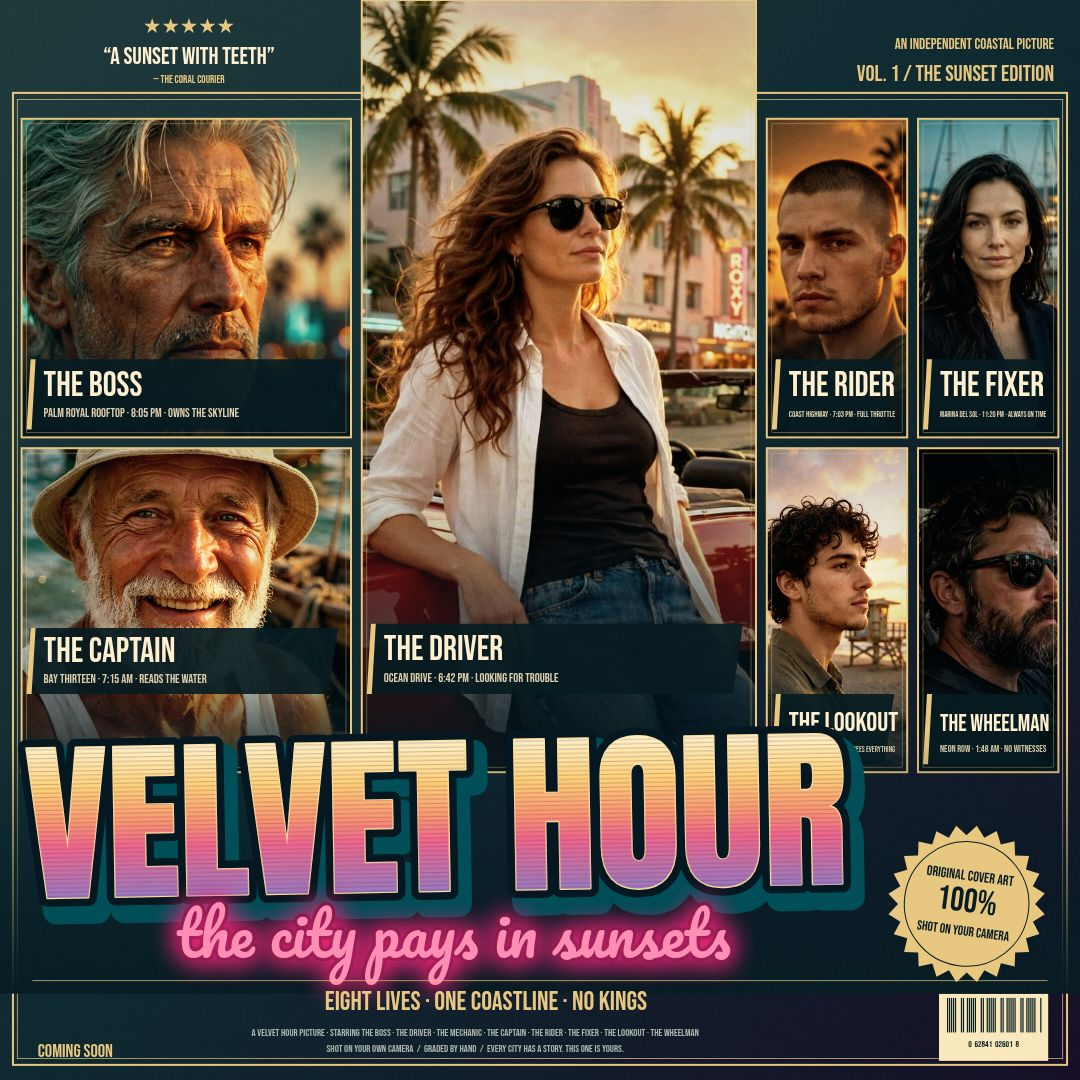
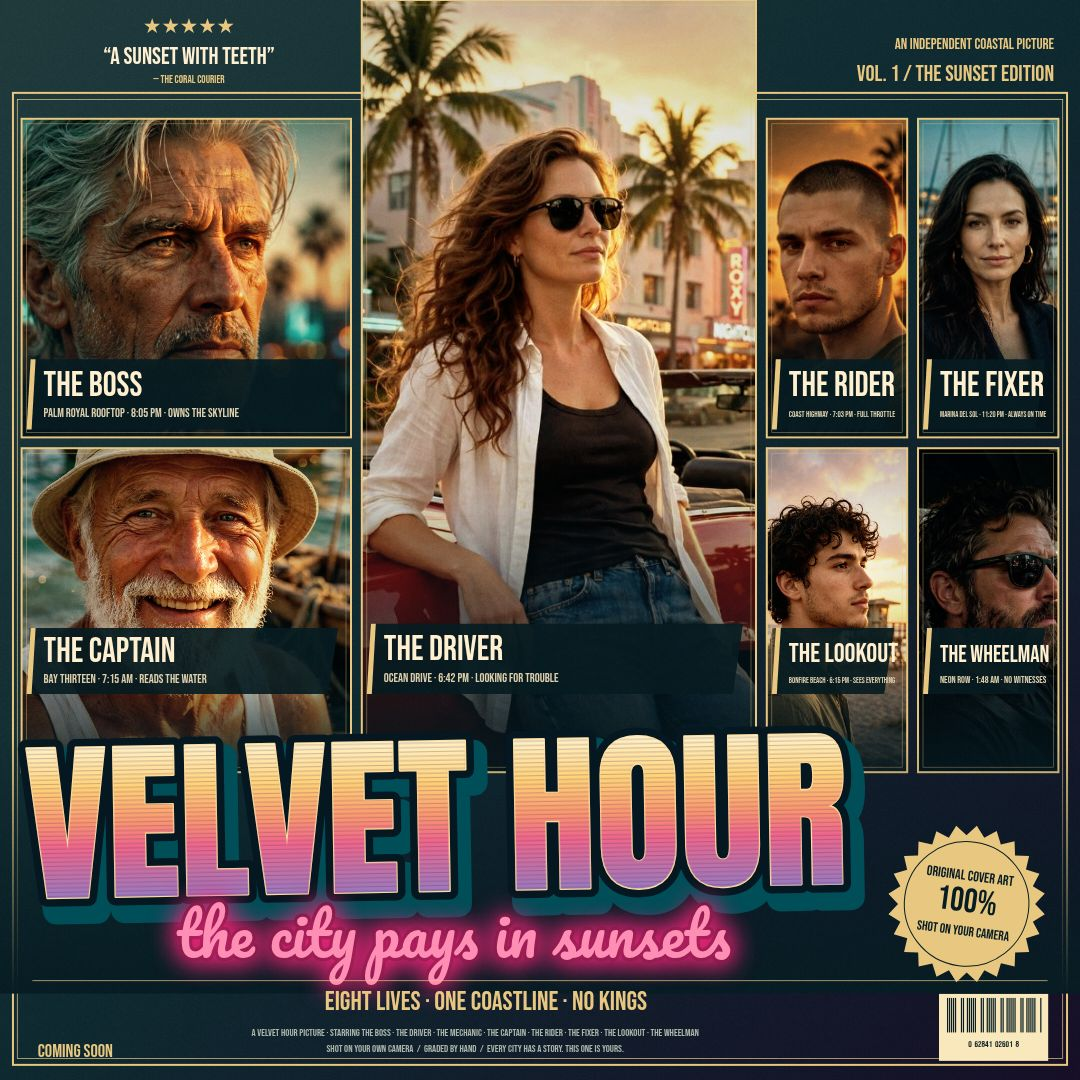
Polish square cast tag clearance and complete provenance audit

Changed region(s): [[0.7028, 0.5806, 0.9778, 0.7028]]

diff --git a/app/src/render-poster.js b/app/src/render-poster.js
@@ -506,7 +506,8 @@ export function renderCoverPoster(canvas, state, photos, { selected = -1 } = {})
     drawGradedPhotoPanel(ctx, photo, panel, boxes[index], state);
 
     const labelBox = { ...boxes[index] };
-    if (!portrait && index <= 2 && labelBox.y + labelBox.h > height * .65) {
+    const square = Math.abs(width / height - 1) < .05;
+    if (!portrait && (index <= 2 || square) && labelBox.y + labelBox.h > height * .65) {
       labelBox.h = height * .65 - labelBox.y;
     }
     drawPanelNameTag(ctx, panel, labelBox, unit);
